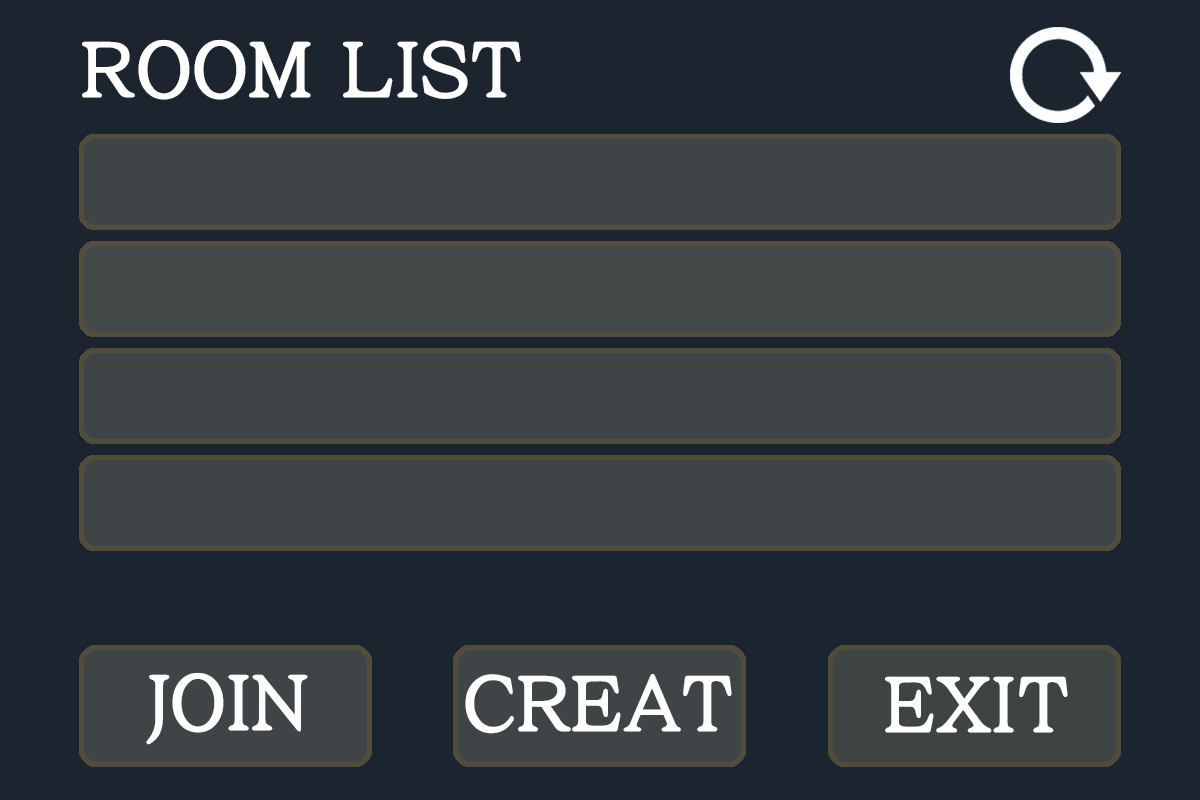
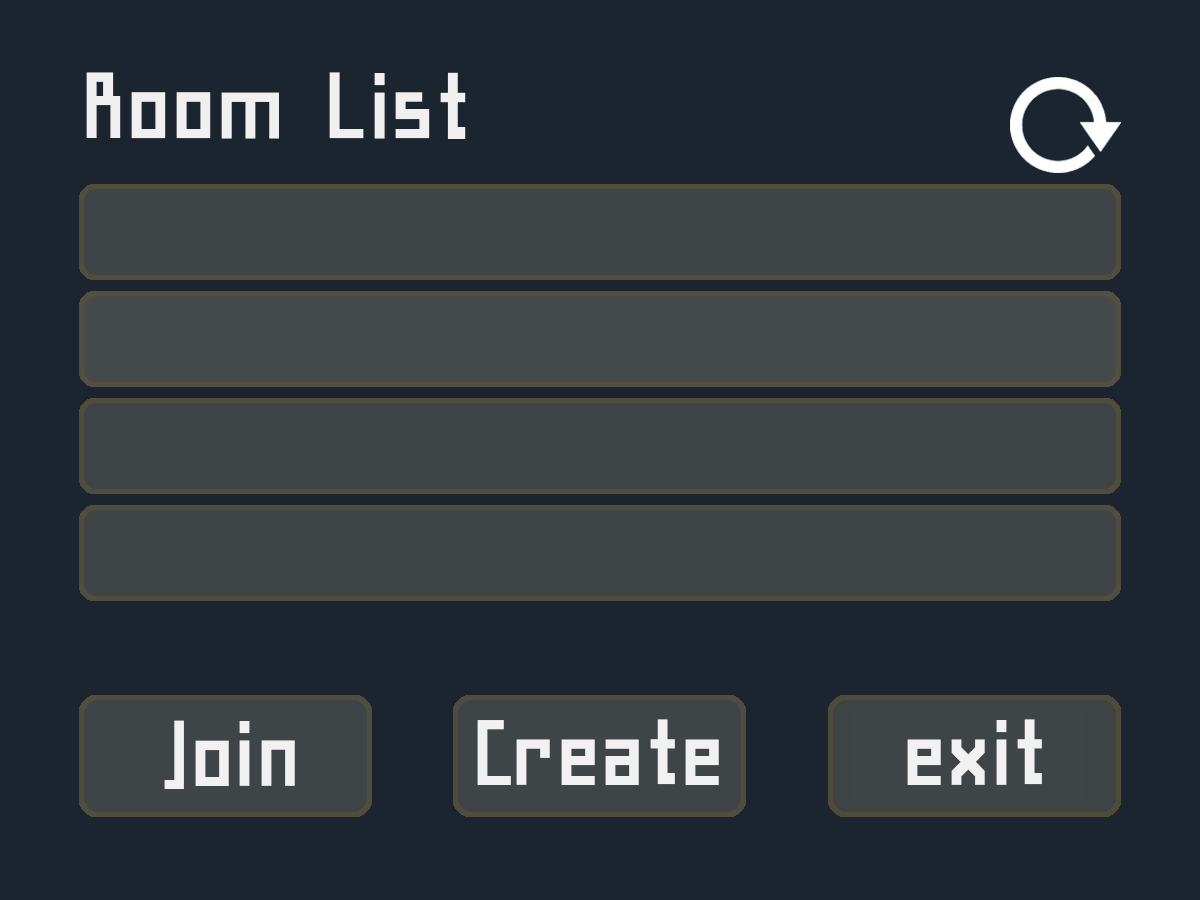
시작화면 삭제,타이틀변경, gc수정
시작화면 삭제,타이틀변경, gc수정

diff --git a/New_MMG/NetworkServer/TCP/C_TcpController.py b/New_MMG/NetworkServer/TCP/C_TcpController.py
@@ -9,6 +9,7 @@ from Bullet.C_PlayerBullet import PBullet
 from GameSys.C_GameSysMain import *
 from TCP.C_Pack import *
 from Background.C_BG import BackGround
+import gc
 
 _Bg = None
 data_struct = Pack
@@ -300,9 +301,9 @@ class TcpController:
         k = 0
         timer = Timer()
         main_time = time.clock()
+        gc.disable()
         while 1:  # When Game Over
-
-            if current_time + 0.03 < time.clock():
+            if current_time + 0.025 < time.clock():
                 current_time = time.clock()
 
                 P_Data = client_socket.recv(struct.calcsize('=ffffiBf'))
@@ -394,7 +395,6 @@ class TcpController:
                             if _Player_Packed[1] + 900 > bullets.y:
                                 if _Player_Packed[1] - 900 < bullets.y:
                                     bullet_packed = data_struct.pack_bullet_data(bullets)
-                                    print('bullet_packed :', data_struct.unpack_bullet_data(bullet_packed ))
                                     Bullets_IN_Window.append(bullet_packed)
                 client_socket.send(struct.pack('=ii', len(Enemys_IN_Window), len(Bullets_IN_Window)))
 
@@ -402,7 +402,7 @@ class TcpController:
                     client_socket.send(Enemy_packed)
                 for bullet_packed in Bullets_IN_Window:
                     client_socket.send(bullet_packed)
-
+        gc.enable()
 
 
         leader_board = open('LeaderBoard.txt', 'a+t')

diff --git a/New_MMG/MyNetworkGame/State/C_title_state.py b/New_MMG/MyNetworkGame/State/C_title_state.py
@@ -48,12 +48,6 @@ def handle_events(frame_time):
                     if _WAND.x < 580:
                         if _WAND.y > 270:
                             if _WAND.y < 405:
-                                C_Game_framework.push_state(C_collision)
-
-                if _WAND.x > 600:
-                    if _WAND.x < 780:
-                        if _WAND.y > 270:
-                            if _WAND.y < 405:
                                 C_Game_framework.push_state(C_Lobby_state)
 
                 if _WAND.x > 800:
@@ -77,8 +71,7 @@ def draw(frame_time):
     global image
 
     clear_canvas()
-    image.draw(640, 480)
-    font.draw(300, 280, 'X , Y : [%d, %d]' % (_WAND.x, _WAND.y))
+    image.draw(600, 450)
     _WAND.draw()
 
     update_canvas()

diff --git a/New_MMG/MyNetworkGame/Player/C_Player.py b/New_MMG/MyNetworkGame/Player/C_Player.py
@@ -149,12 +149,12 @@ class Player1:
         self.state = self.UP_RUN
         self.beforestate = self.UP_RUN
         self.ydir = 1
-        self.playerdir = 0
+        self.playerdir = 1
     def move_down(self):
         self.state = self.DOWN_RUN
         self.beforestate = self.DOWN_RUN
         self.ydir = -1
-        self.playerdir = 3
+        self.playerdir = 0
     def move_left(self):
         self.state = self.LEFT_RUN
         self.beforestate = self.LEFT_RUN
@@ -164,7 +164,7 @@ class Player1:
         self.state = self.RIGHT_RUN
         self.beforestate = self.RIGHT_RUN
         self.xdir = 1
-        self.playerdir = 1
+        self.playerdir = 3
 
 
 

diff --git a/New_MMG/MyNetworkGame/Bullet/C_PlayerBullet.py b/New_MMG/MyNetworkGame/Bullet/C_PlayerBullet.py
@@ -23,12 +23,11 @@ class PBullet:
 
         self.speed = 0
         self.alive =1
-        PBullet._pBullet.append(self)
         self.sx = self.x - self._Bg.window_left
         self.sy = self.y - self._Bg.window_bottom
 
         if PBullet.image == None:
-            PBullet.image = load_image('..\Resource\Image_PBullet.png')
+            PBullet.image = load_image('Resource\Image_PBullet.png')
 
     def update(self):
 
@@ -52,7 +51,4 @@ class PBullet:
         draw_rectangle(*self.get_bb())
     def get_bb(self):
         return self.sx-15 , self.sy-15, self.sx+15, self.sy+15
-    def get_list():
-        return (PBullet._pBullet)
-
 

diff --git a/New_MMG/MyNetworkGame/Bullet/C_EnemyBullet.py b/New_MMG/MyNetworkGame/Bullet/C_EnemyBullet.py
@@ -17,7 +17,6 @@ class EBullet:
     #    self.sx = self.x - PL_X
     #    self.sy = self.y - PL_Y
         self.alive =1
-        EBullet._eBullet.append(self)
 
         if EBullet.image == None:
             EBullet.image = load_image('Resource\Image_EBullet.png')
@@ -43,8 +42,6 @@ class EBullet:
     def get_bb(self):
         return self.sx - 10, self.sy - 10, self.sx + 10, self.sy + 10
         #return self.sx-10 , self.sy-10, self.sx+10, self.sy+10
-    def get_list():
-        return (EBullet._eBullet)
 
 def collide(left_a, bottom_a,right_a, top_a, left_b, bottom_b,right_b, top_b):
 

diff --git a/New_MMG/MyNetworkGame/State/C_Mygame_state.py b/New_MMG/MyNetworkGame/State/C_Mygame_state.py
@@ -3,7 +3,7 @@ import platform
 
 
 import State.C_Game_framework
-from State import C_start_state
+from State import C_title_state
 from State import C_collision
 import pico2d
 #
@@ -14,5 +14,5 @@ else:
     os.environ["PYSDL2_DLL_PATH"] = "./SDL2/x64"
 
 pico2d.open_canvas(1200,900)
-State.C_Game_framework.run(C_start_state)
+State.C_Game_framework.run(C_title_state)
 pico2d.close_canvas()

diff --git a/New_MMG/MyNetworkGame/State/C_Mygame_state_desktop.py b/New_MMG/MyNetworkGame/State/C_Mygame_state_desktop.py
@@ -3,10 +3,10 @@ import platform
 
 
 from State import C_Game_framework
-from State import C_start_state
+from State import C_title_state
 import pico2d
 
 def start():
     pico2d.open_canvas(1200,900)
-    C_Game_framework.run(C_start_state)
+    C_Game_framework.run(C_title_state)
     pico2d.close_canvas()

diff --git a/New_MMG/MyNetworkGame/State/C_collision.py b/New_MMG/MyNetworkGame/State/C_collision.py
@@ -105,8 +105,6 @@ def create_world():
     readystate = 0
     GameScore =0
     font = load_font('Resource\ENCR10B.TTF')
-    _EBullet= EBullet.get_list()
-    _PBullet = PBullet.get_list()
 
 '''
     global unpacked_all_player_data
